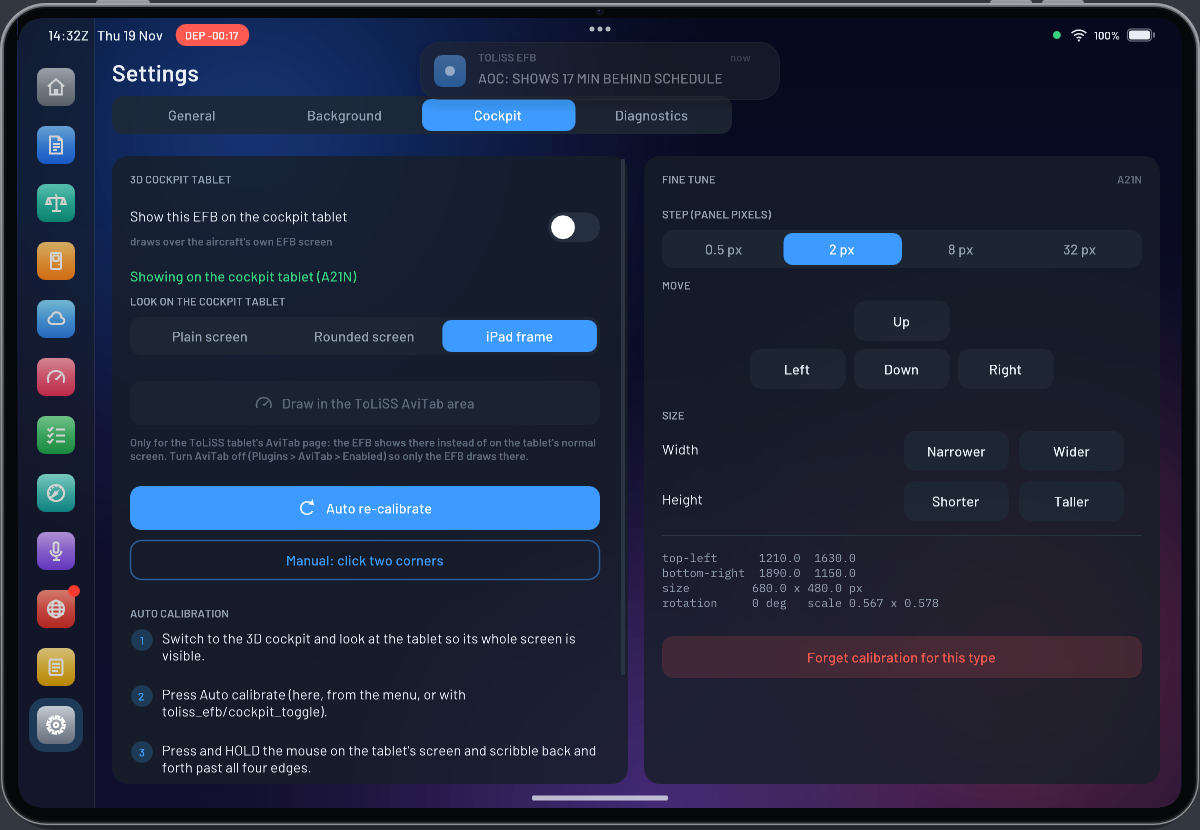
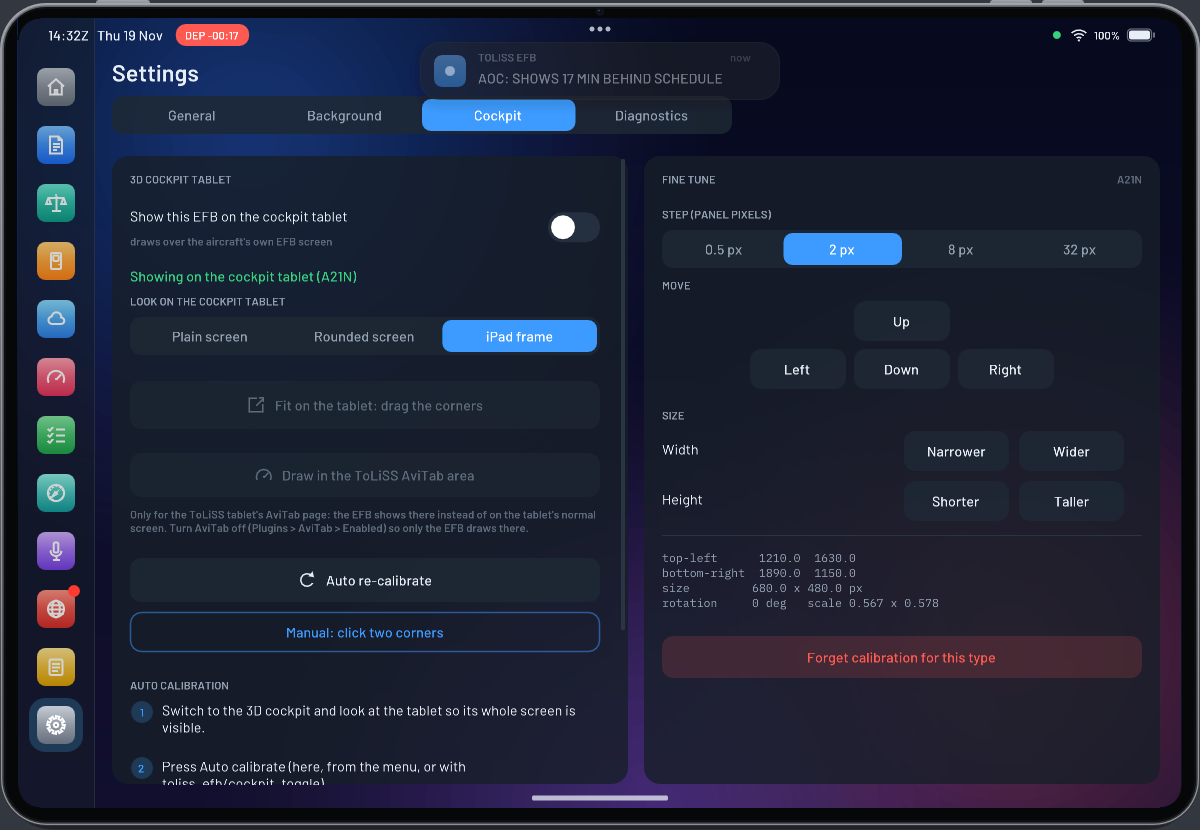
ToLiSS EFB v1.9.5

Changed region(s): [[0.0925, 0.4819, 0.5242, 0.9337], [0.4317, 0.9036, 0.4933, 0.9337]]

diff --git a/README.md b/README.md
@@ -60,13 +60,20 @@ The EFB can replace the picture on the aircraft's own cockpit tablet. It draws i
 aircraft's panel texture, over the screen you calibrate, and you use it by clicking on the
 3D tablet as usual.
 
+**Fit it on the tablet (easiest):** *Settings → Cockpit → Fit on the tablet: drag the corners* (or *Plugins →
+ToLiSS EFB → Fit cockpit tablet*). Orange handles appear on the 3D tablet: drag each corner (or an edge) to the edge
+of the tablet's screen, drag the middle to move it, **ROTATE** if it's sideways, then **DONE**. The EFB fills that
+area edge to edge. The first time on a new type, just click the middle of the screen and drag from there.
+
+![Fit on the tablet](docs/screenshots/cockpit_edit.png)
+
 **On the tablet's AviTab page instead:** *Settings → Cockpit → Draw in the ToLiSS AviTab area* uses the area
 ToLiSS reserves for AviTab (`AviTab.json` in the aircraft folder; built in when it's missing: A319/A320/A321 left
 2119, bottom 9, A330-900/A340-600 left 142, bottom 16, both 1024 × 640). The EFB then shows only on the ToLiSS
 tablet's AviTab page, not on its normal screen; turn AviTab off (*Plugins → AviTab → Enabled*). *Back to my
 calibration* undoes it.
 
-On the tablet's normal screen, calibrate once:
+Or calibrate with a gesture:
 
 1. Sit in the 3D cockpit, looking at the tablet so its whole screen is visible.
 2. **Plugins → ToLiSS EFB → Auto-calibrate cockpit tablet...** (or *Settings → Cockpit → Auto calibrate*).

diff --git a/CHANGELOG.md b/CHANGELOG.md
@@ -3,6 +3,11 @@
 Each version has a one-line summary (used for the Discord announcements and the release list)
 followed by the details.
 
+## 1.9.5 - 2026-11-21 - Fit the EFB right on the tablet
+- Edit mode on the 3D tablet: drag the corners or edges to the screen's edges, the middle to move it, ROTATE, DONE - the EFB fills it edge to edge
+- Start it from Settings > Cockpit > Fit on the tablet, or Plugins > ToLiSS EFB > Fit cockpit tablet
+- A new aircraft type starts in this mode: click the middle of the screen, then drag
+
 ## 1.9.4 - 2026-11-21 - Exact resizing on the cockpit tablet
 - The EFB fills the calibrated area corner to corner: Narrower / Wider and Shorter / Taller each change exactly by the step (it used to keep the iPad's shape, so some presses did nothing and then it jumped)
 - Finer steps: 0.5, 2, 8 and 32 texture pixels; the exact size is shown
